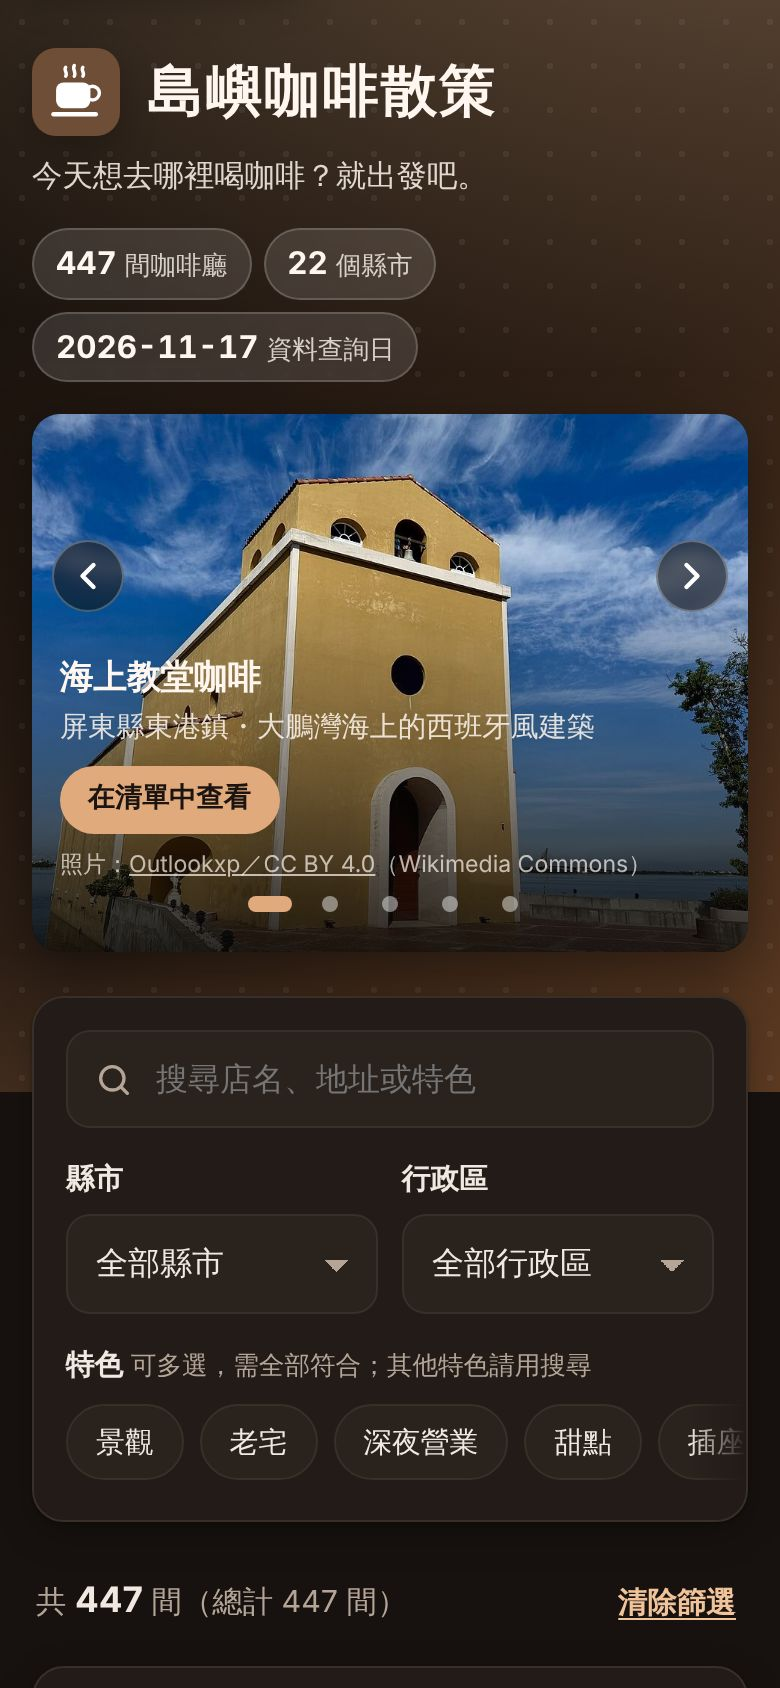
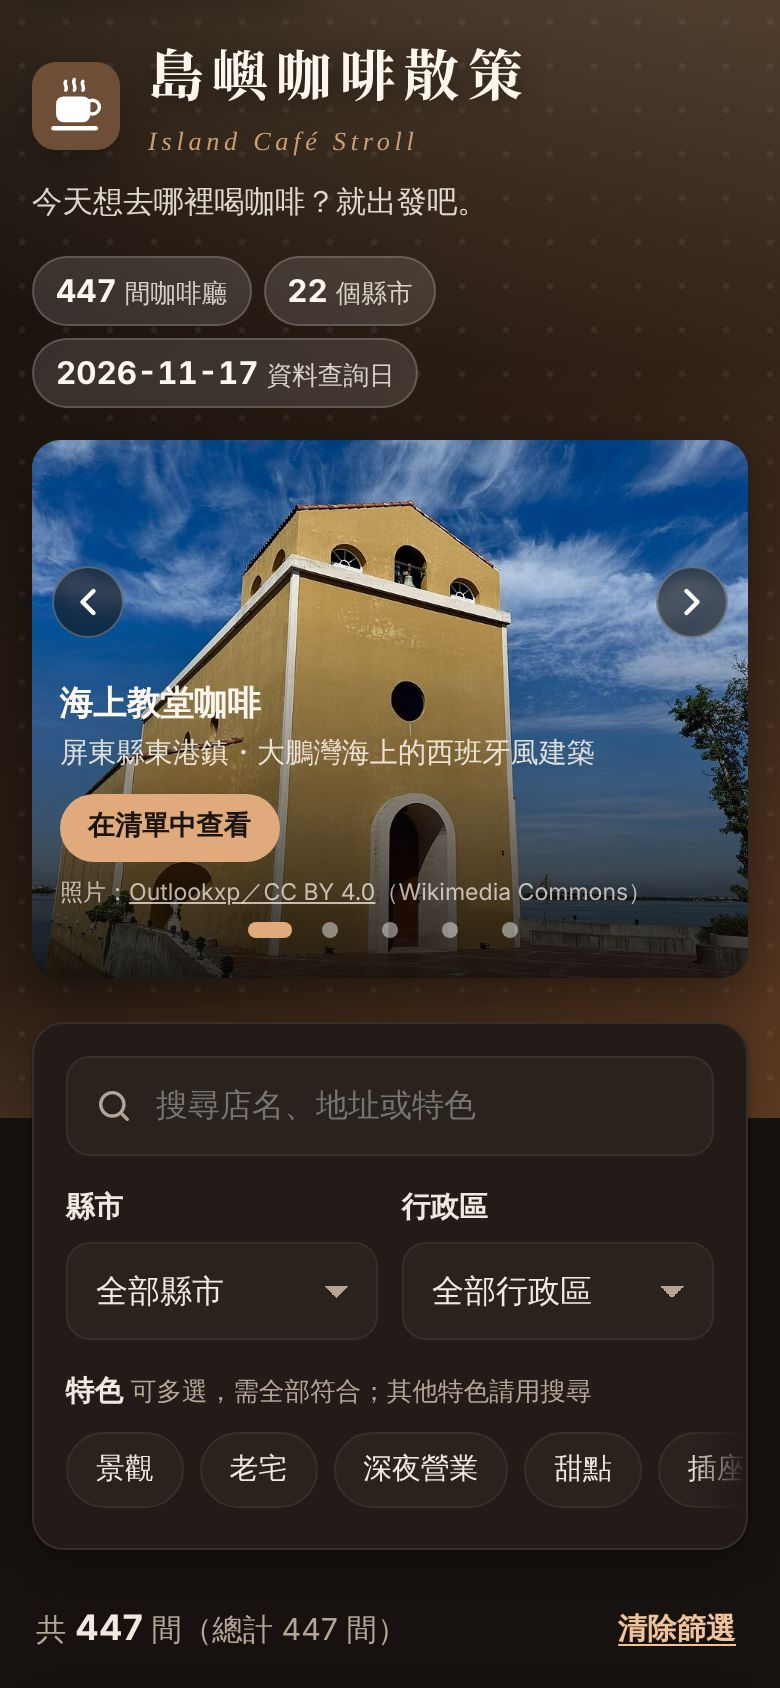
標題改用思源宋體並加上英文副標
Claude-Session: https://claude.ai/code/session_01LUVCkZAwZdgNwQd1aVRFf3

diff --git a/index.html b/index.html
@@ -18,7 +18,9 @@
   <meta name="apple-mobile-web-app-status-bar-style" content="black">
   <!-- 版本號：每次修改 style.css、cafes.js、app.js 後請一起更新，
        並同步更新 sw.js 的 VERSION，讓瀏覽器與離線快取都換成新版 -->
-  <link rel="stylesheet" href="style.css?v=20261117-14">
+  <!-- 標題字體：只含「島嶼咖啡散策」六個字的 Noto Serif TC 子集（約 3 KB），先行載入避免閃爍 -->
+  <link rel="preload" href="fonts/title-serif-700.woff2" as="font" type="font/woff2" crossorigin>
+  <link rel="stylesheet" href="style.css?v=20261117-15">
 </head>
 <body>
   <a class="skip-link" href="#cafe-list">跳到咖啡廳清單</a>
@@ -26,7 +28,10 @@
     <div class="hero-inner">
       <div class="hero-title">
         <img class="hero-icon" src="icons/icon.svg" alt="" width="56" height="56">
-        <h1>島嶼咖啡散策</h1>
+        <div class="hero-heading">
+          <h1>島嶼咖啡散策</h1>
+          <p class="hero-en" lang="en">Island Café Stroll</p>
+        </div>
       </div>
       <p class="hero-sub"><span>今天想去哪裡喝咖啡？</span><span>就出發吧。</span></p>
       <ul class="stats" aria-label="收錄概況">
@@ -118,8 +123,8 @@
     <svg viewBox="0 0 24 24" aria-hidden="true"><path d="m6 14 6-6 6 6"/></svg>
   </button>
 
-  <script src="cafes.js?v=20261117-14"></script>
-  <script src="slides.js?v=20261117-14"></script>
-  <script src="app.js?v=20261117-14"></script>
+  <script src="cafes.js?v=20261117-15"></script>
+  <script src="slides.js?v=20261117-15"></script>
+  <script src="app.js?v=20261117-15"></script>
 </body>
 </html>

diff --git a/style.css b/style.css
@@ -1,3 +1,14 @@
+/* ===================== 標題字體 ===================== */
+/* Noto Serif TC（思源宋體）粗體，只保留「島嶼咖啡散策」六個字，授權見 fonts/OFL.txt */
+@font-face {
+  font-family: "Title Serif";
+  src: url("fonts/title-serif-700.woff2") format("woff2");
+  font-weight: 700;
+  font-style: normal;
+  font-display: swap;
+  unicode-range: U+5CF6, U+5DBC, U+5496, U+5561, U+6563, U+7B56;
+}
+
 /* ===================== 色彩與字體（固定深色主題） ===================== */
 :root {
   color-scheme: dark;
@@ -484,3 +495,25 @@ select {
 
 /* 標語：兩段各自不拆行，窄螢幕時在問號後換行 */
 .hero-sub span { display: inline-block; }
+
+/* ===================== 標題（質感襯線字） ===================== */
+.hero-heading { display: flex; flex-direction: column; gap: 4px; }
+.hero h1 {
+  font-family: "Title Serif", "Noto Serif TC", "Source Han Serif TC", "Songti TC", "PMingLiU", serif;
+  font-weight: 700;
+  letter-spacing: 0.14em;
+  line-height: 1.15;
+  text-shadow: 0 2px 12px rgba(0, 0, 0, 0.35);
+}
+.hero-en {
+  margin: 0;
+  font-family: "Cormorant Garamond", "Garamond", "Baskerville", "Times New Roman", Georgia, serif;
+  font-style: italic;
+  font-size: 0.95rem;
+  letter-spacing: 0.22em;
+  color: var(--accent);
+  opacity: 0.9;
+}
+@media (max-width: 719px) {
+  .hero-en { font-size: 0.82rem; letter-spacing: 0.18em; }
+}

diff --git a/sw.js b/sw.js
@@ -6,7 +6,7 @@
 //
 // 版本號：修改下面 PRECACHE 裡的檔案或 index.html 的 ?v= 版本號時，
 // 請一起更新 VERSION，舊快取會在新版啟用時自動清除。
-const VERSION = "20261117-14";
+const VERSION = "20261117-15";
 const PREFIX = "taichung-cafe-";
 const CACHE = PREFIX + VERSION;
 // 先前「報修登記」版本留下的快取，一併清除
@@ -25,6 +25,7 @@ const PRECACHE = [
   "./images/slides/matsu-coffee-garden.jpg",
   "./app.js?v=" + VERSION,
   "./manifest.webmanifest",
+  "./fonts/title-serif-700.woff2",
   "./icons/icon.svg",
   "./icons/icon-192.png",
   "./icons/icon-512.png",

diff --git a/README.md b/README.md
@@ -11,6 +11,7 @@
 - `index.html`、`style.css`、`app.js`：頁面、樣式與篩選功能。
 - `cafes.js`：咖啡廳資料與資料來源清單。
 - `manifest.webmanifest`、`sw.js`、`icons/`：PWA 設定、離線快取與圖示。
+- `fonts/`：標題用的 Noto Serif TC（思源宋體）子集，只含「島嶼咖啡散策」六個字，依 SIL Open Font License 1.1 授權（`fonts/OFL.txt`）。改標題文字時要重新產生子集，否則新字會改用系統的宋體或明體顯示。
 - `slides.js`、`images/slides/`：頁首的景觀咖啡廳投影片。照片來自 Wikimedia Commons，皆為創用 CC 授權，每張的作者、授權與原始頁面寫在 `slides.js`，畫面上也會顯示。CC BY-SA 照片的裁切版本同樣依 CC BY-SA 授權。
 
 ## 資料說明
